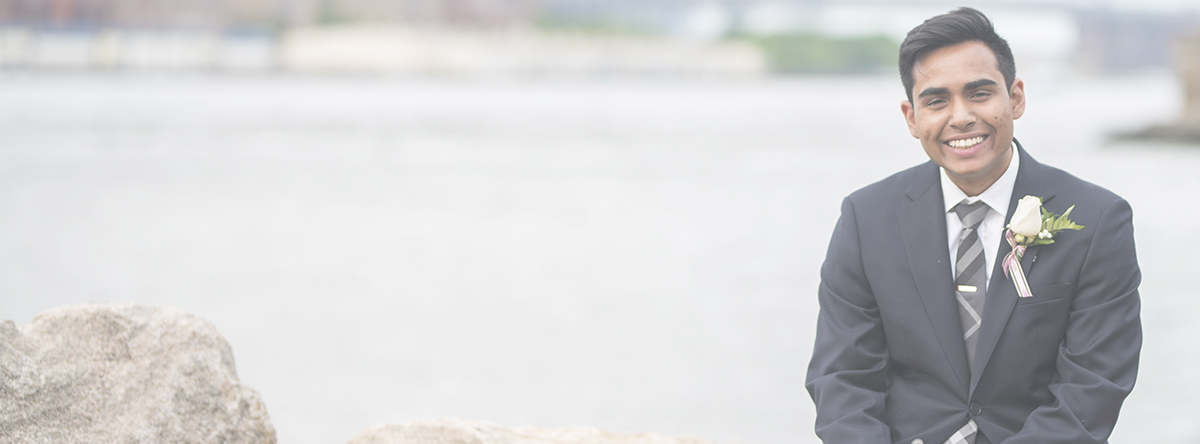
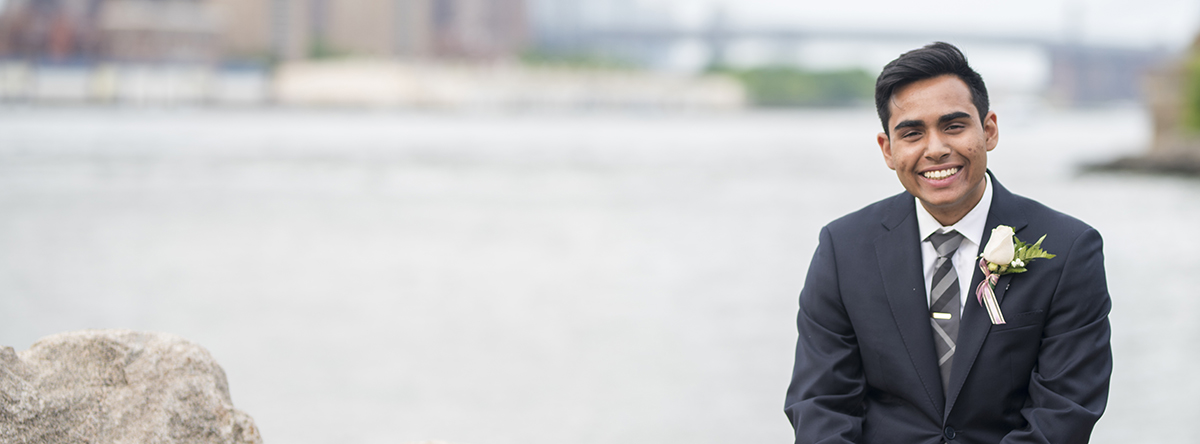
css

diff --git a/assets/css/main.css b/assets/css/main.css
@@ -2175,7 +2175,7 @@ input, select, textarea {
 	#banner {
 		background: #CCE8F4 url("../../images/IMG_3657.jpg");
 		background-position: auto;
-		background-size: auto 175%;
+		background-size: 100% auto;
 		background-repeat: no-repeat;
 		text-align: center;
 		position: relative;
